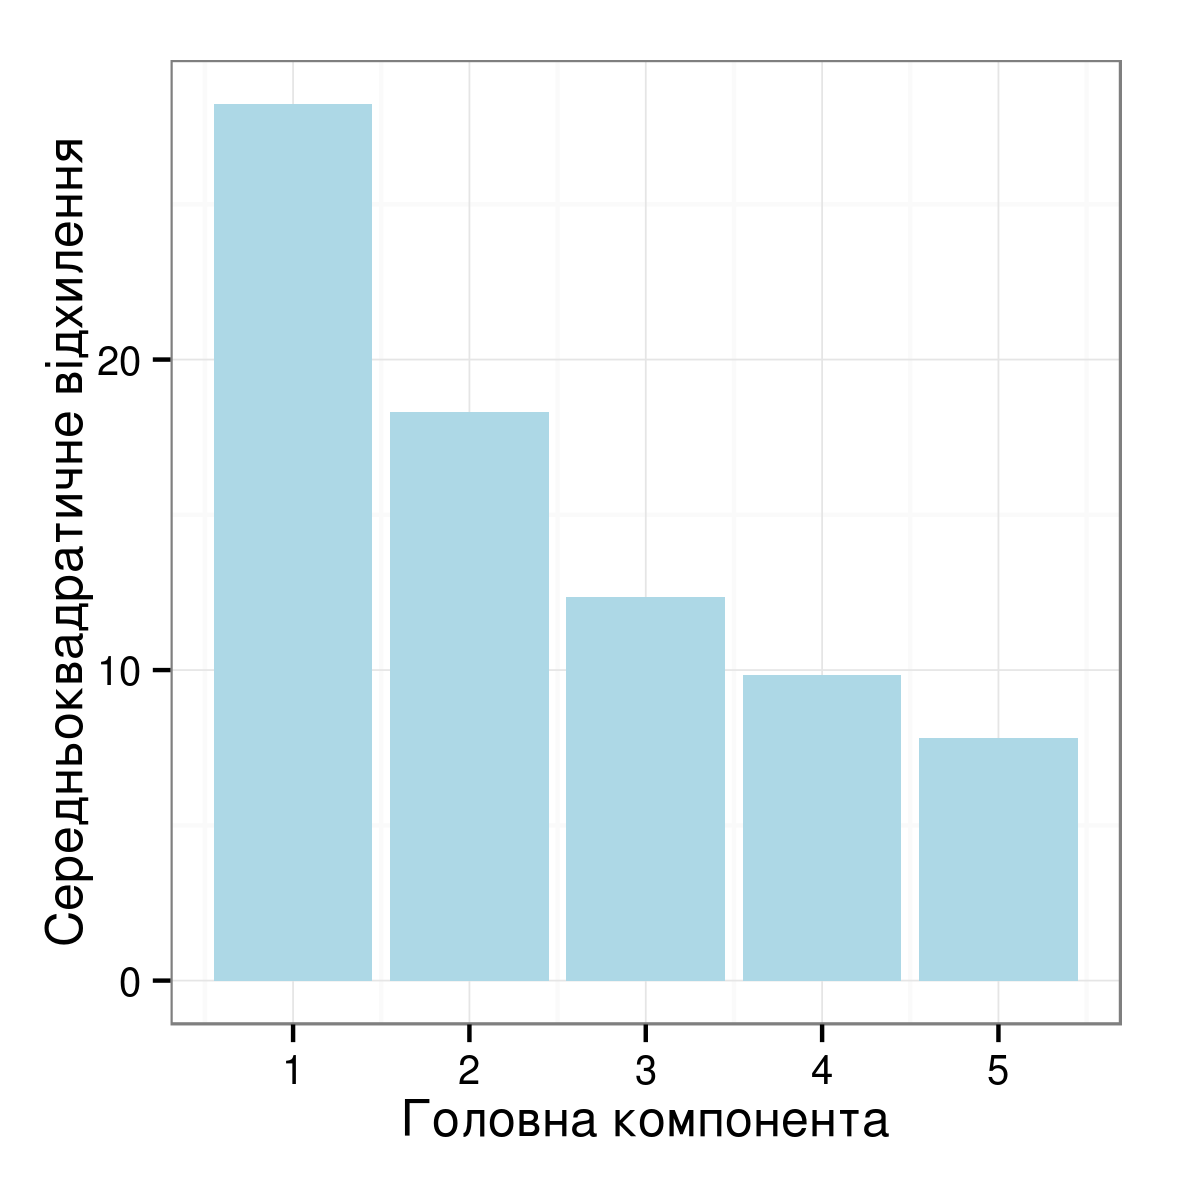
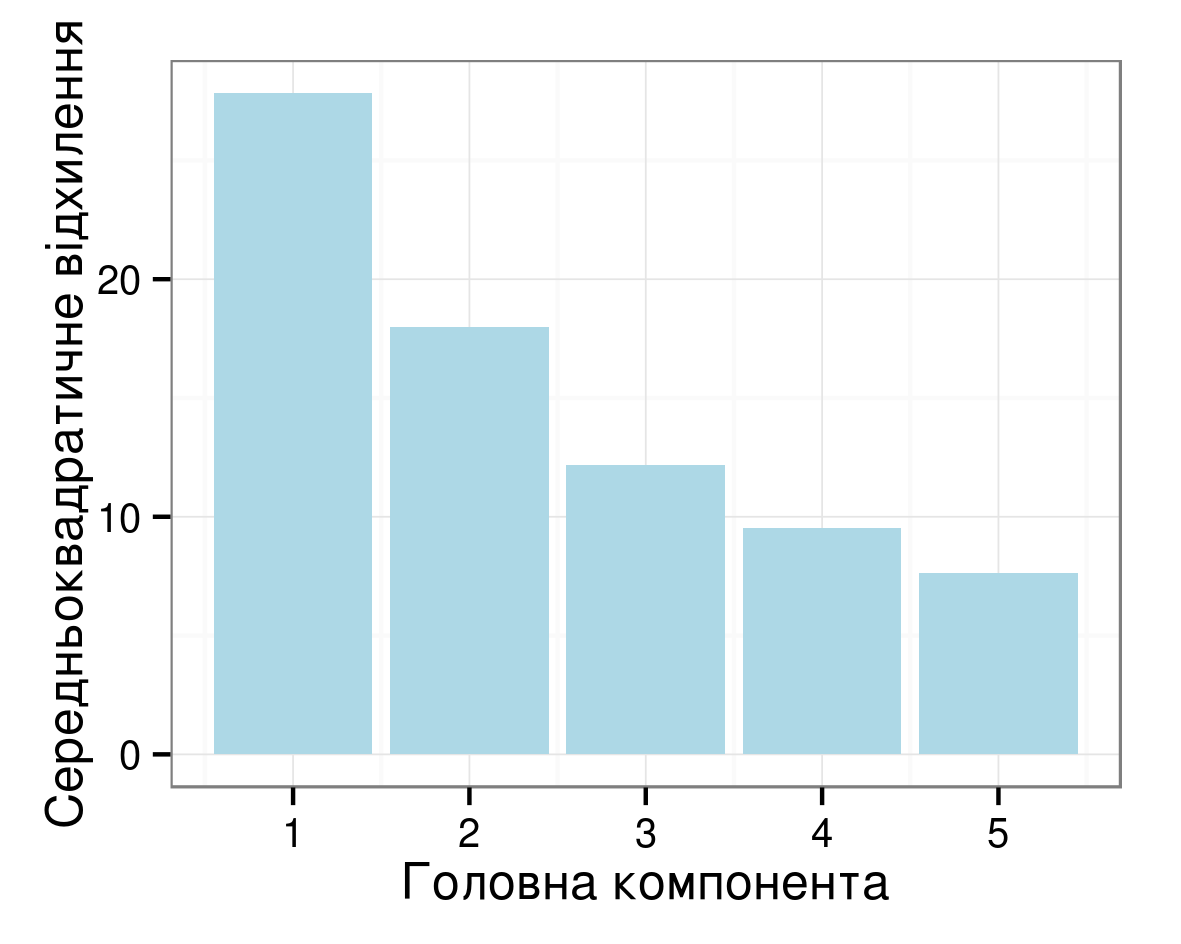
Provided generated data into the document

diff --git a/thesis/6_practice/2_exam.tex b/thesis/6_practice/2_exam.tex
@@ -90,20 +90,22 @@ $T$ --- час виконання тестових завдань (40 або 90 
 Для застосування методу головних компонент
 було змодельовано проходження тестування $600$ студентами.
 
-На рис. \ref{fig:pca:main} можна побачити дисперсії перших десяти головних
-компонент.
-Майже половину інформації ($44.6\%$) можна отримати з першої компоненти.
+На рис. \ref{fig:pca:main} можна побачити середньоквадратичні відхилення
+перших десяти головних компонент.
+Майже половину інформації ($\firstComponentProportion\%$) можна отримати
+з першої компоненти.
 \begin{figure}[h]
   \centering
     \includegraphics{images/pca}
   \caption{Дисперсії першого десятку головних компонент}
   \label{fig:pca:main}
 \end{figure}
+
 На рис. \ref{fig:pca:histograms} наведено гістограми перших чотирьох
 головних компонент.
 \begin{figure}[h]
   \centering
-    \includegraphics[width=\textwidth]{images/pca_hists}
+    \includegraphics{images/pca_hists}
   \caption{Гістограми першої четвірки головних компонент}
   \label{fig:pca:histograms}
 \end{figure}
@@ -116,14 +118,16 @@ $T$ --- час виконання тестових завдань (40 або 90 
   \caption{Детализовані гістограми першої четвірки головних компонент}
   \label{fig:pca:histograms:detailed}
 \end{figure}
+
 На рис. \ref{fig:pca1} зображено склад першої головної компоненти
 з усіма класами та без змішаного і неврівноваженого типів.
 \begin{figure}[h]
   \centering
-    \includegraphics[width=\textwidth]{images/pca1_hist}
-  \caption{Детализовані гістограми першої головної компоненти}
+    \includegraphics[width=0.7\textwidth]{images/pca1_hist}
+  \caption{Деталізовані гістограми першої головної компоненти}
   \label{fig:pca1}
 \end{figure}
+
 За допомогою алгоритму CART (Classification and Regression Tree) було
 класифіковано дві групи студентів:
 \begin{enumerate}
@@ -141,12 +145,13 @@ $T$ --- час виконання тестових завдань (40 або 90 
 Як можна побачити, критерій досить простий:
 \begin{itemize}
   \item
-    ті студенти, перший головний крітерій яких перевищує поріг $17.155$,
-    відносяться з ймовірністю біля $90\%$ до тих, яким треба більше
-    тренуватися;
+    ті студенти, перша головна компонента яких перевищує поріг,
+    відносяться з ймовірністю $\thinkersPredictionQuality\%$ до тих,
+    яким треба більше тренуватися;
   \item
-    ті студенти, перший головний крітерій яких не перевищує поріг $17.155$,
-    відносяться з ймовірністю біля $90\%$ до тих, яким треба більше думати.
+    ті студенти, перша головна компонента яких не перевищує поріг,
+    відносяться з ймовірністю $\learnersPredictionQuality\%$ до тих,
+    яким треба більше думати.
 \end{itemize}
 \begin{figure}[h]
   \centering
@@ -154,3 +159,44 @@ $T$ --- час виконання тестових завдань (40 або 90 
   \caption{Дерево класифікації}
   \label{fig:tree:simple}
 \end{figure}
+
+Для перевірки результатів на поточній матриці повороту було класифіковано
+за першою компонентою ще вибірки по $600$ студентів.
+В цих вибірках було вірно класифіковано людей, яким треба більше думати,
+з наступною точністю: \testThinkersPredictionQuality.
+Тих, яким треба більше працювати, тех було класифіковано з достатньою
+точністю: \testLearnersPredictionQuality.
+На рис. \ref{fig:tree:test} зображено гістограми першої компоненти
+для кожної виборки.
+
+\begin{figure}[h]
+  \centering
+    \includegraphics[width=\textwidth]{images/pca_hists_test}
+  \caption{Інші виборки}
+  \label{fig:tree:test}
+\end{figure}
+
+\chapterConclusion
+
+В даному розділі за допомогою крітерію Пірсона $\chi^2$ було синтезовано
+параметри генератора моделей студентів, за допомогою якого було змодельовано
+студентів різних типів, а саме змішаного, інертного, неврівноваженого,
+рухливого та слабкого.
+Також виявилися студенти, яких не вдалося віднести до жодної групи,
+але їх виявилося не так багато, щоб це негативно впливало на якість виборки.
+
+Маючи додатковими знаннями з інженерної психології та експертну оцінку
+в області психології вдалося побудувати модель проходження тестування
+людьми різних типів.
+Результати було проаналізовано за допомогою метода головних компонент.
+В ході аналізу виявилося, що найбільшу кількість корисної інформації
+містить лише перша компонента, за допомогою якої вдалося з достатньою
+точністю надати вірні поради студентам.
+Не вдалося знайти особливості студентів, що належать змішаному та
+неврівноваженому типів, які б дозволяли виявляти їх з достатньою точністю,
+при цьому не погіршуючи результати для інших типів.
+
+На отриманій матриці повороту та дереві класифікації було проаналізовано
+ще кілька вибірок.
+Аналіз показав, що перша компонента майже не змінює свого розподілу, що
+дозволяє і наладі класифікувати студентів з достатньою точністю.

diff --git a/thesis/6_practice/1_tapping.tex b/thesis/6_practice/1_tapping.tex
@@ -421,22 +421,22 @@ $\lambda_i$, де \cite{Bulinsky:2003}
 Опис:
 \begin{itemize}
   \item
-    Не вдалося віднести до того чи іншого типу $11\%$ студентів.
+    $\poissonNeutral\%$ студентів мають змішаний тип вищої нервової діяльності;
   \item
-    $2\%$ студентів мають змішаний тип вищої нервової діяльності;
+    Студенти інертного типу зустрілися у $\poissonInert\%$ випадків;
   \item
-    Слабкий тип зустрівся у $18\%$ випадків;
+    $\poissonUnstable\%$ студентів відносяться до неврівноваженого типу;
   \item
-    $34\%$ студентів відносяться до неврівноваженого типу;
+    Не вдалося віднести до того чи іншого типу $\poissonNotClassified\%$ студентів;
   \item
-    $20\%$ --- студенти рухливого типу;
+    $\poissonMovable\%$ --- студенти рухливого типу;
   \item
-    Студенти інертного типу зустрілися у $14\%$ випадків;
+    Слабкий тип зустрівся у $\poissonWeak\%$ випадків.
 \end{itemize}
 
 \begin{figure}[h!]
   \centering
-  \includegraphics[width=\textwidth]{images/poisson_types}
+  \includegraphics[width=\textwidth]{images/types}
   \caption{Результати класифікації}
   \label{fig:tapping:poisson:types}
 \end{figure}

diff --git a/thesis/6_practice/pca.tex b/thesis/6_practice/pca.tex
@@ -1,0 +1,5 @@
+\def\firstComponentProportion{45.05}
+\def\thinkersPredictionQuality{94}
+\def\learnersPredictionQuality{80}
+\def\testThinkersPredictionQuality{91\%, 92\%, 93\%, 92\%}
+\def\testLearnersPredictionQuality{81\%, 82\%, 83\%, 76\%}

diff --git a/thesis/6_practice/main.tex b/thesis/6_practice/main.tex
@@ -1,4 +1,6 @@
 \chapter{Моделювання результатів виконання тестових завдань}
 
+\import{}{poisson_types.tex}
+\import{}{pca.tex}
 \import{}{1_tapping.tex}
 \import{}{2_exam.tex}

diff --git a/thesis/6_practice/poisson_types.tex b/thesis/6_practice/poisson_types.tex
@@ -1,0 +1,6 @@
+\def\poissonNotClassified{13.8}
+\def\poissonNeutral{0.8}
+\def\poissonWeak{18.8}
+\def\poissonUnstable{33.7}
+\def\poissonMovable{19.5}
+\def\poissonInert{13.3}
